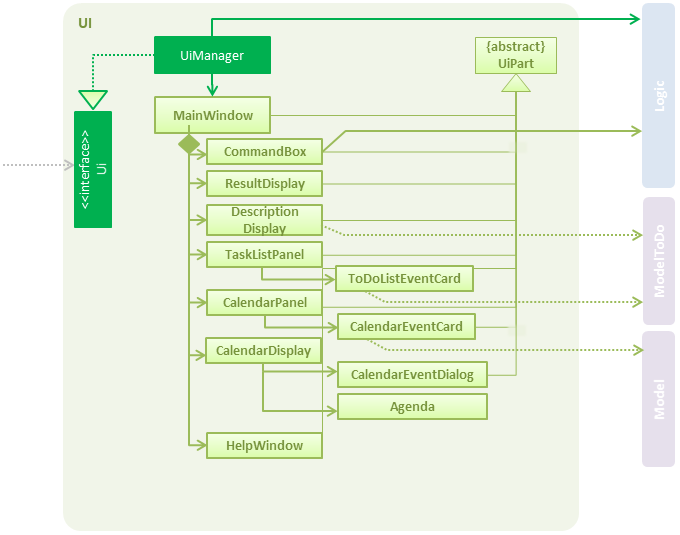
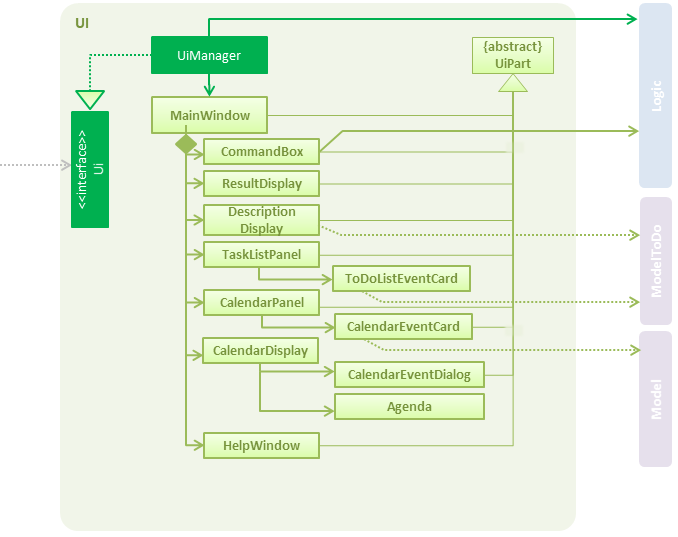
Rebuild pages at f537c932acdfcf814c90a2281098d38733500606

diff --git a/team/sleepyliyixin.html b/team/sleepyliyixin.html
@@ -10,7 +10,7 @@
 <h2 id="overview"><a class="link" href="#overview">Overview</a></h2>
 <div class="sectionbody">
 <div class="paragraph">
-<p>U-Schedule* is a desktop calendar application for university students written for the project for the module CS2103
+<p><strong>U-Schedule</strong> is a desktop calendar application for university students written for the project for the module CS2103
 Software Engineering. The user interacts with it using a CLI, and it has a GUI created with JavaFX for user feedback.
 It is written in Java, and has about 10 kLoC.</p>
 </div>
@@ -26,22 +26,32 @@ It is written in Java, and has about 10 kLoC.</p>
 <div class="ulist">
 <ul>
 <li>
-<p>What it does: It allows users to record the tasks with different priorities that need to be completed and delete if completed. And it can also show description of the task to users.</p>
+<p>What it does: It allows users to record the tasks with different priorities that need to be completed and delete if completed.</p>
 </li>
 <li>
-<p>Justification: This feature improves the product significantly because in addition to those events that occur at specific times, users also need to record tasks that do not have a specific time. These tasks can be assignments, projects or some simple plans that need to be finished. And if users record priorities, they can do tasks according to priority.</p>
+<p>Justification: This feature improves the product significantly because in addition to those events that occur at specific times, users also need to record tasks that do not have a specific time. These tasks can be assignments, projects or some simple plans. And they can do tasks according to priority.</p>
 </li>
 <li>
 <p>Highlights: This enhancement uses a different model from calendar events and it need re-construct logic, storage and ui conponents.</p>
-</li>
-<li>
-<p>Credits: <em>{mention here if you reused any code/ideas from elsewhere or if a third-party library is heavily used in the feature so that a reader can make a more accurate judgement of how much effort went into the feature}</em></p>
 </li>
 </ul>
 </div>
 </li>
 <li>
-<p><strong>Code contributed</strong>: [<a href="https://nus-cs2103-ay1819s1.github.io/cs2103-dashboard/" class="bare">https://nus-cs2103-ay1819s1.github.io/cs2103-dashboard/</a><mark>=undefined&amp;search=sleepysanjinli] [<a href="https://nus-cs2103-ay1819s1.github.io/cs2103-dashboard/" class="bare">https://nus-cs2103-ay1819s1.github.io/cs2103-dashboard/</a></mark>=undefined&amp;search=sleepysanjinli] <em>{give links to collated code files}</em></p>
+<p><strong>Minor enhancement</strong>:</p>
+<div class="ulist">
+<ul>
+<li>
+<p>Add a showDescriptionCommand to show description of task with a popup window.</p>
+</li>
+<li>
+<p>Make priorities displyed in different colors.</p>
+</li>
+</ul>
+</div>
+</li>
+<li>
+<p><strong>Code contributed</strong>: * <a href="https://nus-cs2103-ay1819s1.github.io/cs2103-dashboard/#=undefined&amp;search=sleepysanjinli" class="bare">https://nus-cs2103-ay1819s1.github.io/cs2103-dashboard/#=undefined&amp;search=sleepysanjinli</a> *</p>
 </li>
 <li>
 <p><strong>Other contributions</strong>:</p>
@@ -52,7 +62,10 @@ It is written in Java, and has about 10 kLoC.</p>
 <div class="ulist">
 <ul>
 <li>
-<p>Set up some issues. Managing milestones.</p>
+<p>Set up some issues.</p>
+</li>
+<li>
+<p>Managing milestones.</p>
 </li>
 </ul>
 </div>
@@ -72,7 +85,17 @@ It is written in Java, and has about 10 kLoC.</p>
 <div class="ulist">
 <ul>
 <li>
-<p>Did cosmetic tweaks to existing contents of the User Guide: <a href="https://github.com/CS2103-AY1819S1-T10-1/main/pull/120" class="bare">https://github.com/CS2103-AY1819S1-T10-1/main/pull/120</a></p>
+<p>Did cosmetic tweaks to existing contents of the User Guide and Developer Guide: <a href="https://github.com/CS2103-AY1819S1-T10-1/main/pull/120" class="bare">https://github.com/CS2103-AY1819S1-T10-1/main/pull/120</a></p>
+</li>
+</ul>
+</div>
+</li>
+<li>
+<p>Community:</p>
+<div class="ulist">
+<ul>
+<li>
+<p>PRs reviewed (with non-trivial review comments): <a href="https://github.com/CS2103-AY1819S1-T10-1/main/pull/130" class="bare">https://github.com/CS2103-AY1819S1-T10-1/main/pull/130</a></p>
 </li>
 </ul>
 </div>
@@ -81,9 +104,6 @@ It is written in Java, and has about 10 kLoC.</p>
 </div>
 </li>
 </ul>
-</div>
-<div class="paragraph">
-<p><em>{you can add/remove categories in the list above}</em></p>
 </div>
 </div>
 </div>
@@ -100,6 +120,42 @@ It is written in Java, and has about 10 kLoC.</p>
 </tr>
 </tbody>
 </table>
+<div class="sect2">
+<h3 id="showing-description-code-showdescription-code"><a class="link" href="#showing-description-code-showdescription-code">Showing description: <code>showDescription</code></a></h3>
+<div class="paragraph">
+<p>Shows description of the specified todo item from the todo list.<br>
+Format: <code>show todo INDEX</code></p>
+</div>
+<div class="sidebarblock">
+<div class="content">
+<div class="ulist">
+<ul>
+<li>
+<p>Shows description of the todo item at the specified <code>INDEX</code>.</p>
+</li>
+<li>
+<p>The index refers to the index number shown in the displayed todo list.</p>
+</li>
+<li>
+<p>The index <strong>must be a positive integer</strong> 1, 2, 3, &#8230;&#8203;</p>
+</li>
+</ul>
+</div>
+</div>
+</div>
+<div class="paragraph">
+<p>Examples:</p>
+</div>
+<div class="ulist">
+<ul>
+<li>
+<p><code>list todo</code><br>
+<code>show todo 1</code><br>
+Shows description of the 1st todo item in the todo list.</p>
+</li>
+</ul>
+</div>
+</div>
 </div>
 </div>
 <div class="sect1">
@@ -474,9 +530,9 @@ Prefixes t/, d/ and p/ respectively allow user to input <code>Title</code>, <cod
 </ul>
 </div>
 <div class="paragraph">
-<p>And modify diagrams in Design parts, including Architecture, UI Component, Logic Component and Storage Component.</p>
+<p><strong>And modify diagrams in Design parts, including Architecture, UI Component, Logic Component and Storage Component.</strong></p>
 </div>
 </div>
 </div>
 </div>
-</div></div><div id="footer"><div class="container"><div id="footer-text">Last updated 2018-11-12 09:25:23 UTC</div></div></div></body></html>
+</div></div><div id="footer"><div class="container"><div id="footer-text">Last updated 2018-11-12 09:49:57 UTC</div></div></div></body></html>

diff --git a/DeveloperGuide.html b/DeveloperGuide.html
@@ -374,7 +374,10 @@ The <code>.pptx</code> files used to create diagrams in this document can be fou
 <p><a href="#Design-Logic"><strong><code>Logic</code></strong></a>: The command executor.</p>
 </li>
 <li>
-<p><a href="#Design-Model"><strong><code>Model</code></strong></a>: Holds the data of the App in-memory.</p>
+<p><a href="#Design-Model"><strong><code>Model</code></strong></a>: Holds the calendar events data of the App in-memory.</p>
+</li>
+<li>
+<p><a href="#Design-Model"><strong><code>ModelToDo</code></strong></a>: Holds the todolist events data of the App in-memory.</p>
 </li>
 <li>
 <p><a href="#Design-Storage"><strong><code>Storage</code></strong></a>: Reads data from, and writes data to, the hard disk.</p>
@@ -462,7 +465,7 @@ Note how the event is propagated through the <code>EventsCenter</code> to the <c
 <p><strong>API</strong> : <a href="https://github.com/CS2103-AY1819S1-T10-1/main/tree/master//src/main/java/seedu/venue/ui/Ui.java"><code>Ui.java</code></a></p>
 </div>
 <div class="paragraph">
-<p>The UI consists of a <code>MainWindow</code> that is made up of parts e.g.<code>CommandBox</code>, <code>ResultDisplay</code>, <code>CalendarPanel</code>, 'CalendarDisplay', etc. All these, including the <code>MainWindow</code>, inherit from the abstract <code>UiPart</code> class.</p>
+<p>The UI consists of a <code>MainWindow</code> that is made up of parts e.g.<code>CommandBox</code>, <code>ResultDisplay</code>, <code>CalendarPanel</code>, <code>TaskListPanel</code>, <code>CalendarDisplay</code>, etc. All these, including the <code>MainWindow</code>, inherit from the abstract <code>UiPart</code> class.</p>
 </div>
 <div class="paragraph">
 <p>The <code>UI</code> component uses JavaFx UI framework. The layout of these UI parts are defined in matching <code>.fxml</code> files that are in the <code>src/main/resources/view</code> folder. For example, the layout of the <a href="https://github.com/CS2103-AY1819S1-T10-1/main/tree/master//src/main/java/seedu/venue/ui/MainWindow.java"><code>MainWindow</code></a> is specified in <a href="https://github.com/CS2103-AY1819S1-T10-1/main/tree/master//src/main/resources/view/MainWindow.fxml"><code>MainWindow.fxml</code></a></p>
@@ -476,7 +479,7 @@ Note how the event is propagated through the <code>EventsCenter</code> to the <c
 <p>Executes user commands using the <code>Logic</code> component.</p>
 </li>
 <li>
-<p>Binds itself to some data in the <code>Model</code> so that the UI can auto-update when data in the <code>Model</code> change.</p>
+<p>Binds itself to some data in the <code>Model</code>/<code>ModelToDo</code> so that the UI can auto-update when data in the <code>Model</code>/<code>ModelToDo</code> change.</p>
 </li>
 <li>
 <p>Responds to events raised from various parts of the App and updates the UI accordingly.</p>
@@ -2980,4 +2983,4 @@ Expected: Similar to previous.</p>
 </div>
 </div>
 </div>
-</div></div><div id="footer"><div class="container"><div id="footer-text">Last updated 2018-11-12 09:25:23 UTC</div></div></div></body></html>
+</div></div><div id="footer"><div class="container"><div id="footer-text">Last updated 2018-11-12 09:49:57 UTC</div></div></div></body></html>

diff --git a/AboutUs.html b/AboutUs.html
@@ -53,7 +53,7 @@ In Charge Of: UI</p>
 </div>
 </div>
 <div class="paragraph">
-<p>[<a href="https://github.com/SleepySanjinLi" class="bare">https://github.com/SleepySanjinLi</a>] [<a href="team/johndoe.html">portfolio</a>]</p>
+<p>[<a href="https://github.com/SleepySanjinLi" class="bare">https://github.com/SleepySanjinLi</a>] [<a href="team/sleepyliyixin.html">portfolio</a>]</p>
 </div>
 <div class="paragraph">
 <p>Role: Developer<br>
@@ -80,4 +80,4 @@ In Charge Of: Model, UI</p>
 <hr>
 </div>
 </div>
-</div></div><div id="footer"><div class="container"><div id="footer-text">Last updated 2018-11-12 09:25:23 UTC</div></div></div></body></html>
+</div></div><div id="footer"><div class="container"><div id="footer-text">Last updated 2018-11-12 09:49:57 UTC</div></div></div></body></html>

diff --git a/team/johndoe.html b/team/johndoe.html
@@ -455,4 +455,4 @@ If the <code>currentStatePointer</code> is at index <code>schedulerStateList.siz
 <p><em>{Optionally, you may include other projects in your portfolio.}</em></p>
 </div>
 </div>
-</div></div><div id="footer"><div class="container"><div id="footer-text">Last updated 2018-11-12 09:25:23 UTC</div></div></div></body></html>
+</div></div><div id="footer"><div class="container"><div id="footer-text">Last updated 2018-11-12 09:49:57 UTC</div></div></div></body></html>

diff --git a/ContactUs.html b/ContactUs.html
@@ -12,4 +12,4 @@
 <p><strong>Email us</strong> : You can also reach us at <code>damith [at] comp.nus.edu.sg</code></p>
 </li>
 </ul>
-</div></div><div id="footer"><div class="container"><div id="footer-text">Last updated 2018-11-12 09:25:23 UTC</div></div></div></body></html>
+</div></div><div id="footer"><div class="container"><div id="footer-text">Last updated 2018-11-12 09:49:57 UTC</div></div></div></body></html>

diff --git a/team/bryanwongweiheng.html b/team/bryanwongweiheng.html
@@ -333,4 +333,4 @@ Selects the 1st calendar event in the results of the <code>find event</code> com
 </tbody>
 </table>
 </div>
-</div></div><div id="footer"><div class="container"><div id="footer-text">Last updated 2018-11-12 09:25:23 UTC</div></div></div></body></html>
+</div></div><div id="footer"><div class="container"><div id="footer-text">Last updated 2018-11-12 09:49:57 UTC</div></div></div></body></html>

diff --git a/LearningOutcomes.html b/LearningOutcomes.html
@@ -542,4 +542,4 @@ class gives some examples of how to use <em>Equivalence Partitions</em>, <em>Bou
 </div>
 </div>
 </div>
-</div></div><div id="footer"><div class="container"><div id="footer-text">Last updated 2018-11-12 09:25:23 UTC</div></div></div></body></html>
+</div></div><div id="footer"><div class="container"><div id="footer-text">Last updated 2018-11-12 09:49:57 UTC</div></div></div></body></html>

diff --git a/team/vighneshrameshiyer.html b/team/vighneshrameshiyer.html
@@ -449,4 +449,4 @@ If the <code>currentStatePointer</code> is at index <code>schedulerStateList.siz
 </div>
 </div>
 </div>
-</div></div><div id="footer"><div class="container"><div id="footer-text">Last updated 2018-11-12 09:25:23 UTC</div></div></div></body></html>
+</div></div><div id="footer"><div class="container"><div id="footer-text">Last updated 2018-11-12 09:49:57 UTC</div></div></div></body></html>

diff --git a/UsingGradle.html b/UsingGradle.html
@@ -255,4 +255,4 @@ See <code>build.gradle</code> &#8594; <code>allprojects</code> &#8594; <code>dep
 </ul>
 </div>
 </div>
-</div></div><div id="footer"><div class="container"><div id="footer-text">Last updated 2018-11-12 09:25:23 UTC</div></div></div></body></html>
+</div></div><div id="footer"><div class="container"><div id="footer-text">Last updated 2018-11-12 09:49:57 UTC</div></div></div></body></html>

diff --git a/UsingNetlify.html b/UsingNetlify.html
@@ -123,4 +123,4 @@ The publish directory is the directory in which the built HTML documentation res
 </ol>
 </div>
 </div>
-</div></div><div id="footer"><div class="container"><div id="footer-text">Last updated 2018-11-12 09:25:23 UTC</div></div></div></body></html>
+</div></div><div id="footer"><div class="container"><div id="footer-text">Last updated 2018-11-12 09:49:57 UTC</div></div></div></body></html>

diff --git a/UsingCoveralls.html b/UsingCoveralls.html
@@ -96,4 +96,4 @@ If you have not set up Travis CI, see <a href="UsingTravis.html">UsingTravis.ado
 </ol>
 </div>
 </div>
-</div></div><div id="footer"><div class="container"><div id="footer-text">Last updated 2018-11-12 09:25:23 UTC</div></div></div></body></html>
+</div></div><div id="footer"><div class="container"><div id="footer-text">Last updated 2018-11-12 09:49:57 UTC</div></div></div></body></html>

diff --git a/UsingTravis.html b/UsingTravis.html
@@ -280,4 +280,4 @@ Suggested change: Remove the codacy badge from <code>README</code>.</p>
 </div>
 </div>
 </div>
-</div></div><div id="footer"><div class="container"><div id="footer-text">Last updated 2018-11-12 09:25:23 UTC</div></div></div></body></html>
+</div></div><div id="footer"><div class="container"><div id="footer-text">Last updated 2018-11-12 09:49:57 UTC</div></div></div></body></html>
